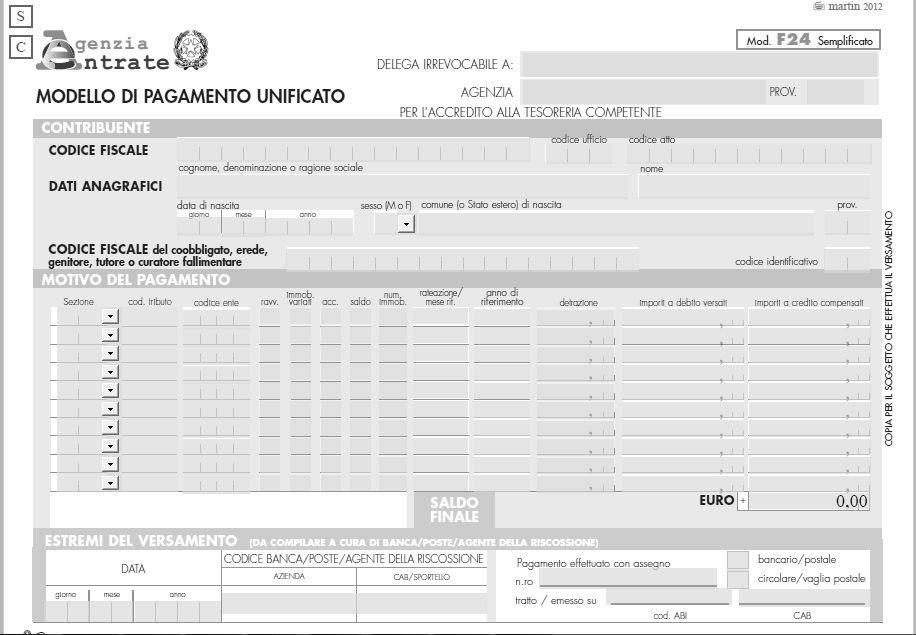
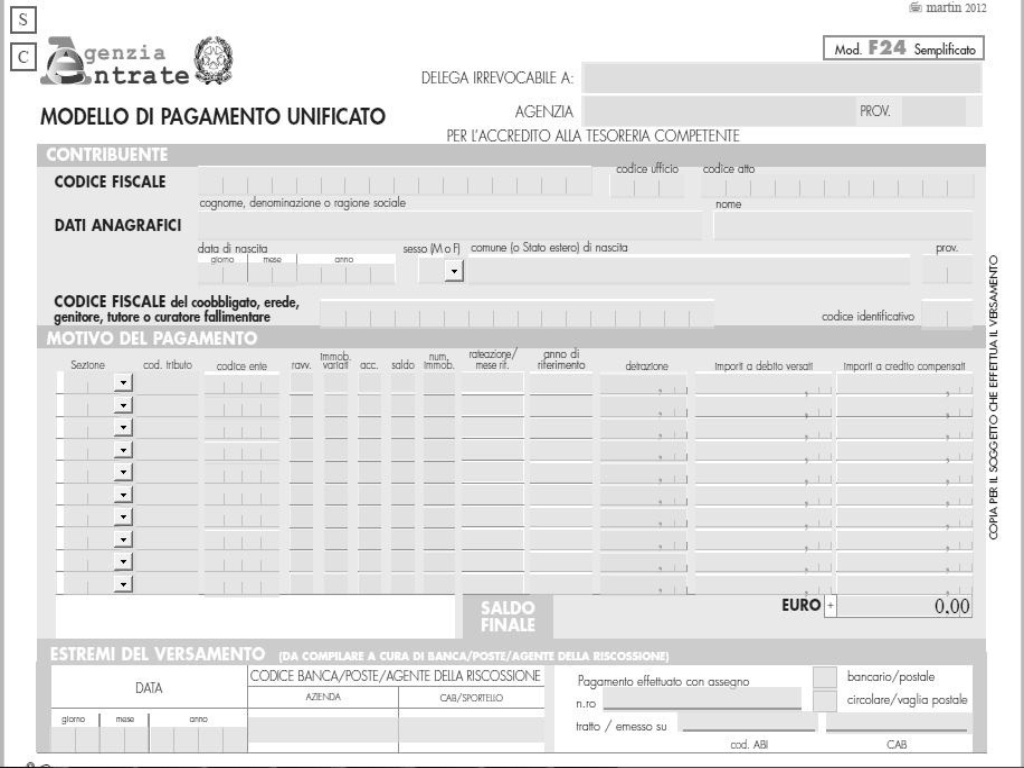
commit

diff --git a/imgskew.py b/imgskew.py
@@ -5,29 +5,27 @@ from matplotlib import pyplot as plt
 import math
 import gc
 import imgmatch
-#from PIL import Image
+
+def imgDenoise(imgpath):
+  img = cv2.imread(imgpath)
+  #img = cv2.cvtColor(img, cv2.COLOR_BGR2GRAY)
+  clahe = cv2.createCLAHE(clipLimit=2.0, tileGridSize=(8,8))
+  img = clahe.apply(img)
+  cv2.imwrite(imgpath,img)
+
 
 def imageSkew(imgbase64):
   #commenting the template code as we are using standard template
   pathofthetemplate=''
-  #res=F24ImageFinder.findF24ImageType(imgbase64)
-  #with open("imageToSave.png", "wb") as fh:
-     #fh.write(imgbase64.decode('base64'))
   imgdata = base64.b64decode(imgbase64)
   filename = 'source_image.jpg'
+  imgDenoise(filename)
   with open(filename, 'wb') as f:
     f.write(imgdata)
 
   pathofthetemplate=imgmatch.findTemplate('./source_image.jpg')
-  #print(pathofthetemplate)
   orig_image = cv2.imread(pathofthetemplate, 0)
-  #orig_image = cv2.imread('./F24_form.JPG', 0)
-  #skewed_image = cv2.imread('./img_skew.jpg', 0)
-  nparr = np.fromstring(base64.b64decode(imgbase64), np.uint8)
-  #nparr = np.fromstring(base64.b64decode(encoded_string), np.uint8)
-  skewed_image = cv2.imdecode(nparr, 1)
-  #cv2.imwrite('./check.jpg',skewed_image)
-  #skewed_image = cv2.imread(base64.encode(imgbase64),0)
+  skewed_image = cv2.imread(filename, 0)
   surf = cv2.xfeatures2d.SURF_create(400)
   kp1, des1 = surf.detectAndCompute(orig_image, None)
   kp2, des2 = surf.detectAndCompute(skewed_image, None)
@@ -61,13 +59,7 @@ def imageSkew(imgbase64):
     print("Calculated scale difference: %.2f\nCalculated rotation difference: %.2f" % (scaleRecovered, thetaRecovered))
     im_out = cv2.warpPerspective(skewed_image, np.linalg.inv(M), (orig_image.shape[1], orig_image.shape[0]))
     print("Calculated cv2.wrap")
-    #plt.imshow(im_out, 'gray')
     cv2.imwrite('./sc.jpg',im_out)
-    #im = Image.open('./sc.jpg')
-    #width, height = im.size
-    #print(height,width)
-    #plt.show()
-    # Convert captured image to JPG
     retval, buffer = cv2.imencode('.jpg', im_out)
 
     # Convert to base64 encoding and show start of data

diff --git a/imgmatch.py b/imgmatch.py
@@ -124,7 +124,7 @@ def is_duplicate(img1, img2):
 def findTemplate(img_path):
     #img = cv2.imread('./xx1.jpg',cv2.IMREAD_GRAYSCALE)
     image = cv2.imread(img_path,cv2.IMREAD_GRAYSCALE)
-    image_resized = misc.imresize(image, (635, 916))
+    image_resized = misc.imresize(image, (768, 1024))
     cv2.imwrite('./resizedimage.jpg',image_resized)
     img = cv2.imread('./resizedimage.jpg',cv2.IMREAD_GRAYSCALE)
     img = img.copy()
